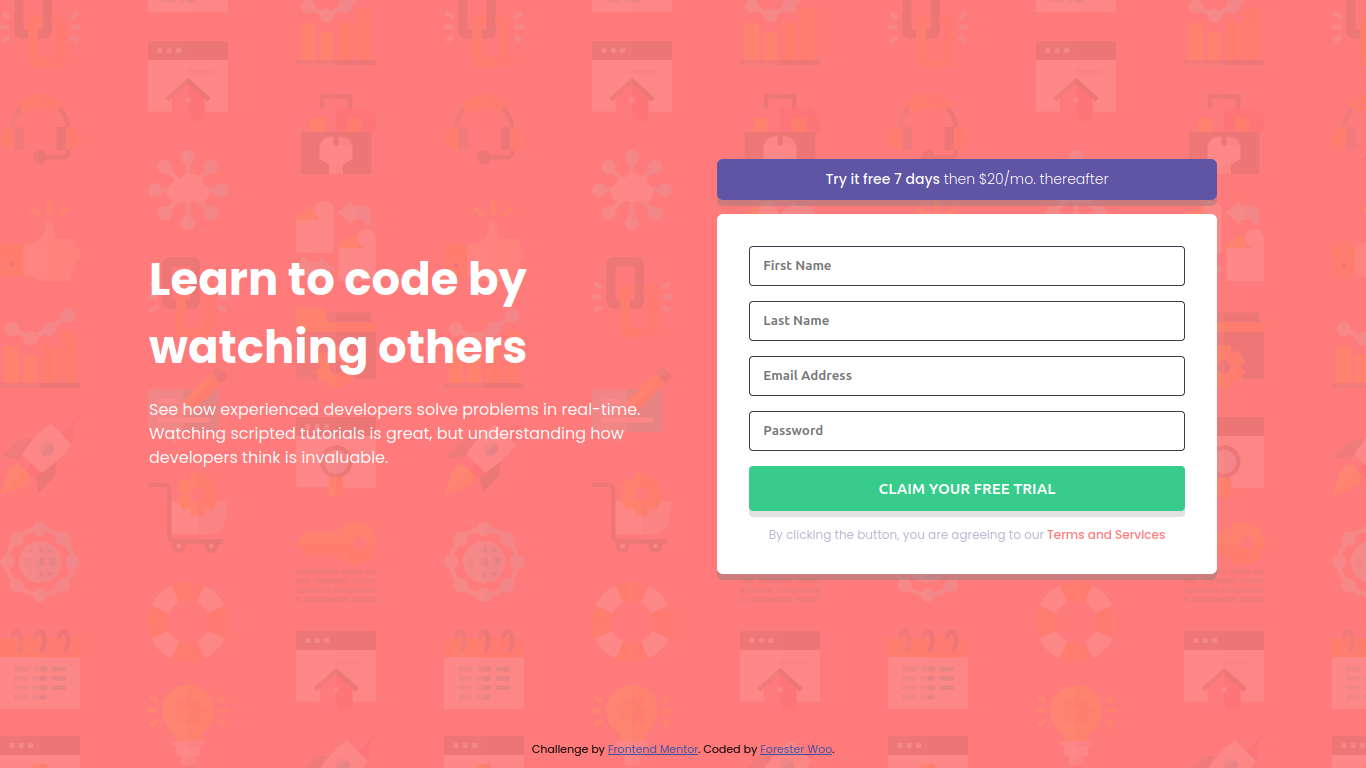
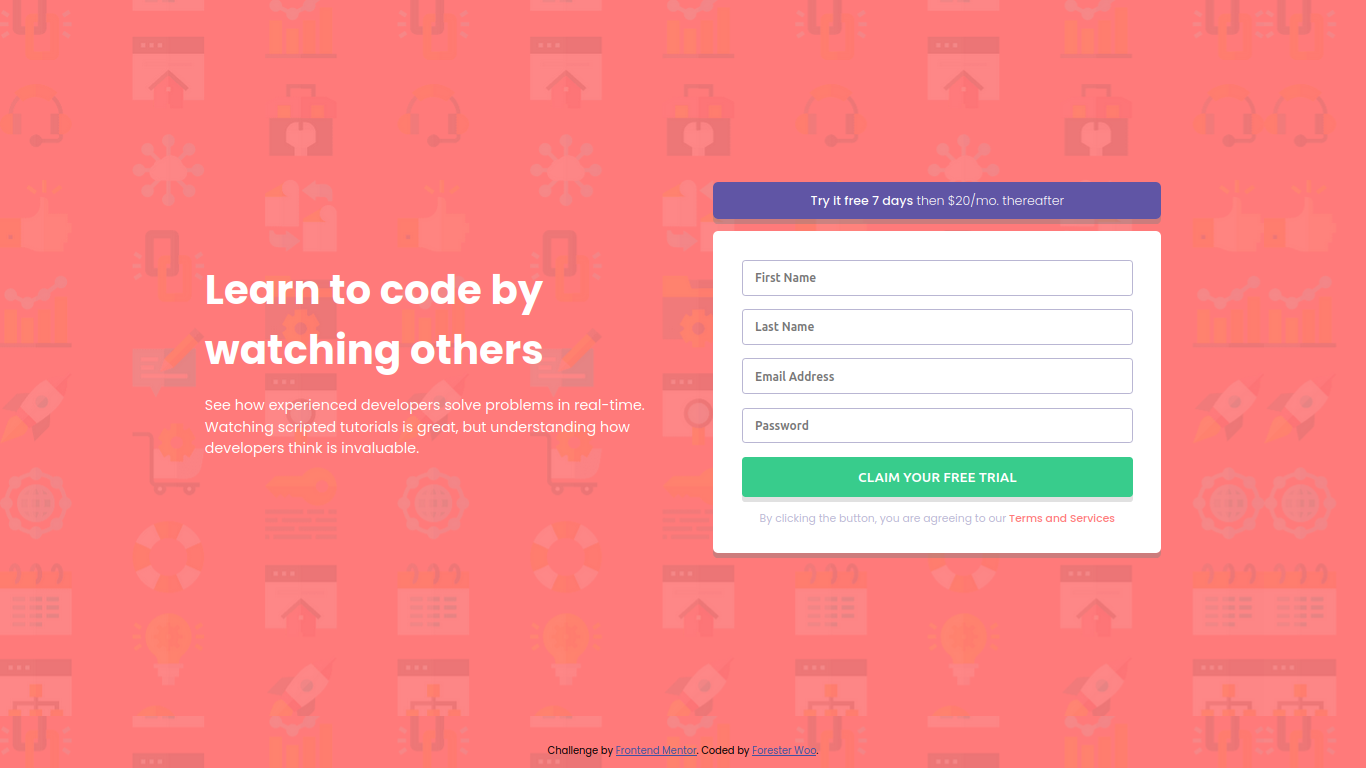
Readme update

diff --git a/intro-component-with-signup-form-master/static/style.scss b/intro-component-with-signup-form-master/static/style.scss
@@ -119,7 +119,7 @@ h2 {
     padding: 0 1em;
 }
 #signup__form input:not([type=submit]) {
-    border: 1px solid $neutral-dark-blue;
+    border: 1px solid $neutral-grayish-blue;
     font-weight: 700;
     color: #000;
     margin-block-end: 0.9375rem;

diff --git a/intro-component-with-signup-form-master/static/style.css b/intro-component-with-signup-form-master/static/style.css
@@ -123,7 +123,7 @@ h2 {
 }
 
 #signup__form input:not([type=submit]) {
-  border: 1px solid hsl(249, 10%, 26%);
+  border: 1px solid hsl(246, 25%, 77%);
   font-weight: 700;
   color: #000;
   margin-block-end: 0.9375rem;

diff --git a/intro-component-with-signup-form-master/README.md b/intro-component-with-signup-form-master/README.md
@@ -41,8 +41,8 @@ Users are be able to:
 
 ### Links
 
-- Solution URL: [Repository URL]()
-- Live Site URL: [Live Demo Link](https://forester04.github.io/frontend_mentor-projects/)
+- Solution URL: [Repository URL](https://github.com/Forester04/frontend_mentor-projects/tree/main/intro-component-with-signup-form-master)
+- Live Site URL: [Live Demo Link](https://forester04.github.io/frontend_mentor-projects/intro-component-with-signup-form-master)
 
 ## My process
 
